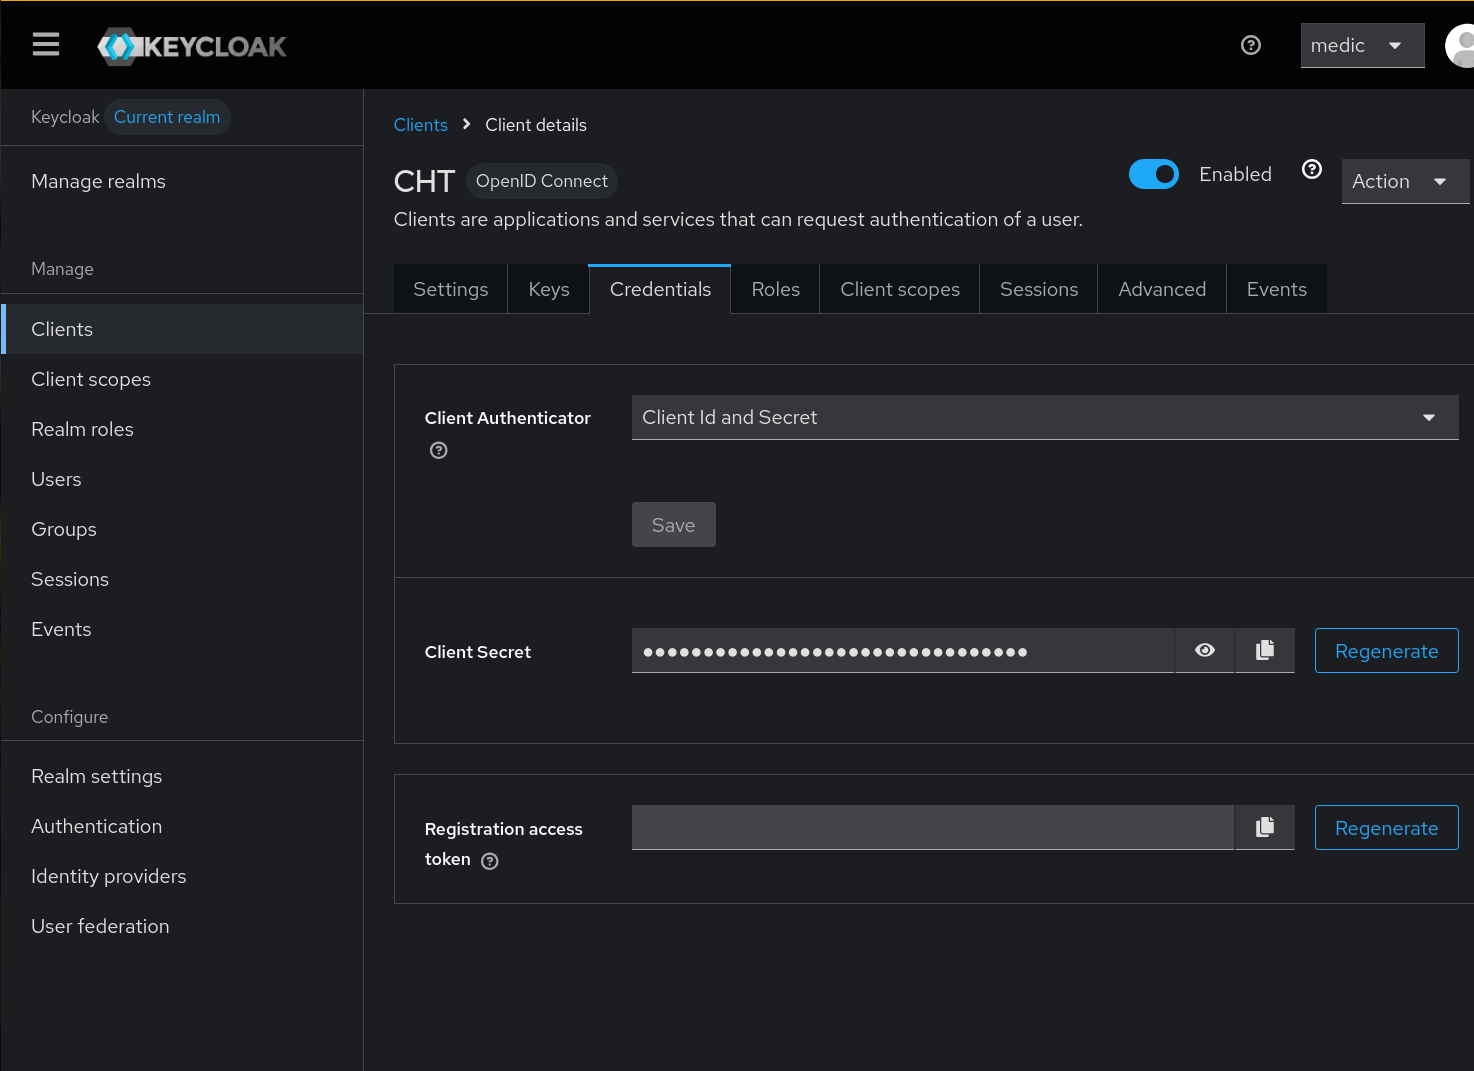
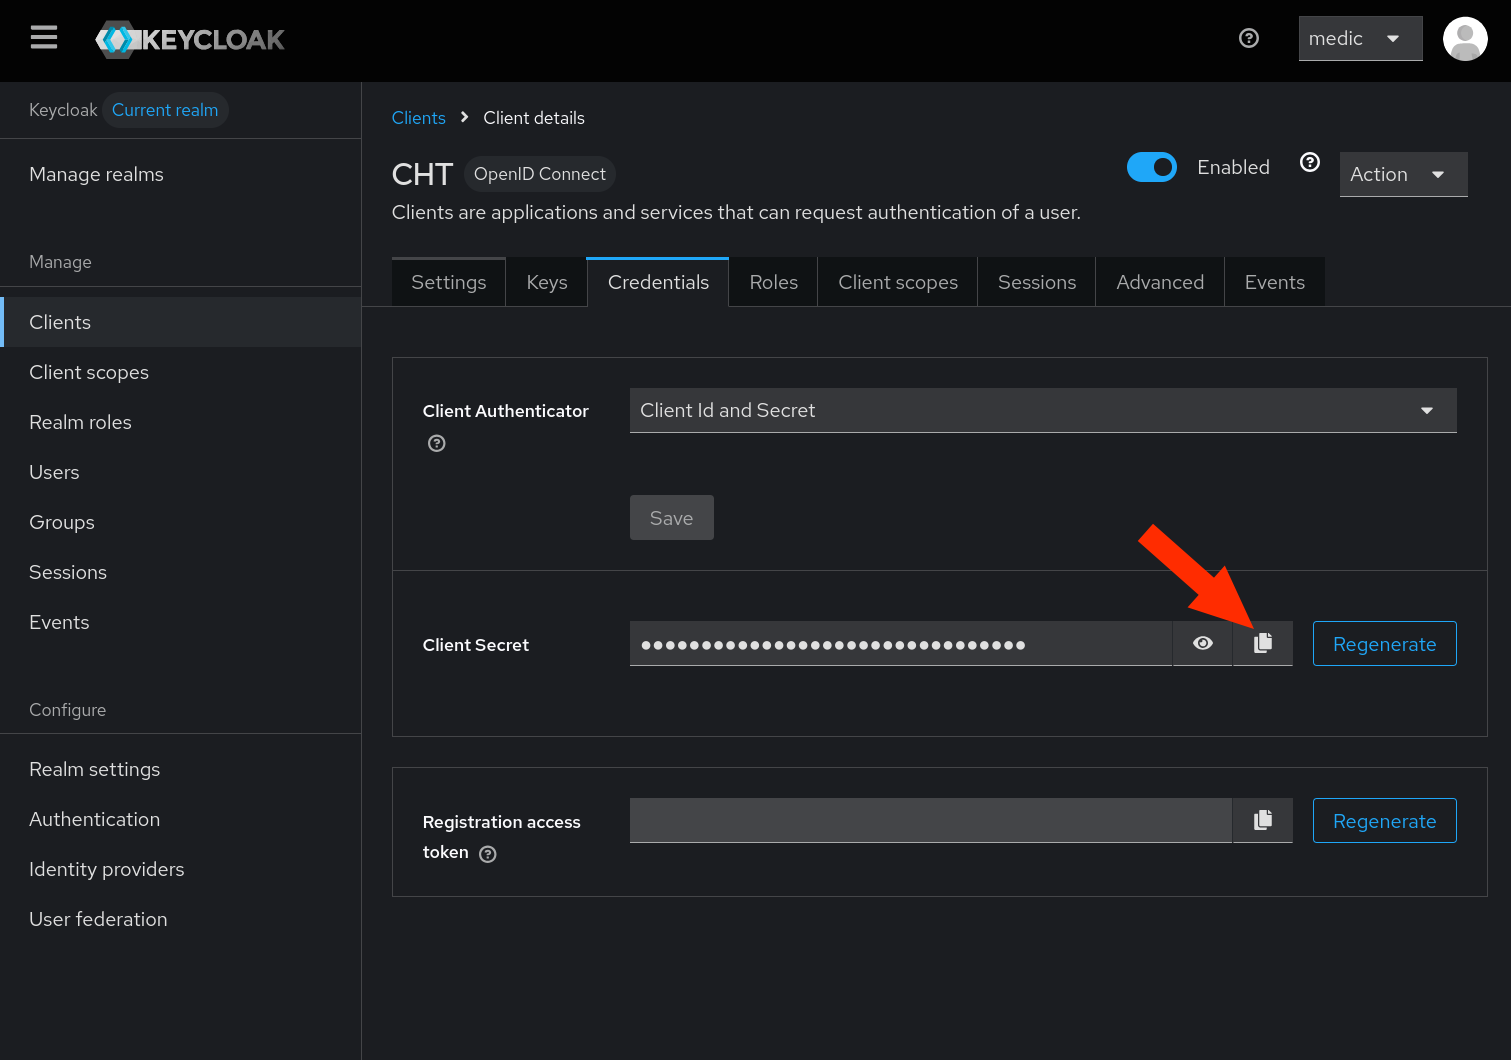
recreate images, start to move new client to it's own section

diff --git a/content/en/hosting/SSO/keycloak.md b/content/en/hosting/SSO/keycloak.md
@@ -11,8 +11,7 @@ _Introduced in 4.2.0_
 
 These steps document how to configure a single user on a new install of KeyCloak.  
 
-## Prerequisites 
-
+## Prerequisites
 
 {{< tabs items="Production,Development" >}}
 {{< tab >}}
@@ -47,9 +46,7 @@ KeyCloak is now accessible on [http://localhost:8080](http://localhost:8080![img
 {{< /tab >}}
 {{< /tabs >}}
 
-
 ## KeyCloak Setup
-
 
 {{% steps %}}
 
@@ -58,19 +55,6 @@ KeyCloak is now accessible on [http://localhost:8080](http://localhost:8080![img
 Be sure you're logged in
 
 ![welcome.png](keycloak/welcome.png)
-
-### Add new user (optional)
-
-Optionally create a new user by going to  "Users" > "Add user".  Specify username of `test` and and email of `test@test.com`
-
-![new.user.png](keycloak/new.user.png)
-
-### Credentials
-Go to the user's "Credentials" tab and select "Set password"
-
-![set.password.png](keycloak/set.password.png)
-
-![password.png](keycloak/password.png)
 
 ### Add new Client
 
@@ -93,20 +77,19 @@ Be sure to replace `CHT_URL` with the docker helper URL of your CHT instance. Be
 - Client ID: `CHT`
 - Client authentication: `On`
 - Authentication Flow: `Standard flow`
-- Valid redirect URIs: `https://<CHT_URL![img.png](img.png)>/medic/login/oidc`
+- Valid redirect URIs: `https://<CHT_URL>/medic/login/oidc`
 
 {{< /tab >}}
 {{< /tabs >}}
-
-
  
-![new.client.png](keycloak/new.client.png)
+![Create new Client](keycloak/newclient-new.png)
 
-![new.client.2.png](keycloak/new.client.2.png)
+![Client ID](keycloak/newclient-new2.png)
 
-![new.client.3.png](keycloak/new.client.3.png)
+![Client authentication](keycloak/newclient-new3.png)
 
-![new.client.4.png](keycloak/new.client.4.png)
+![Valid redirect URIs](keycloak/newclient-new4.png)
+
 
 ### Copy Secret
 
@@ -116,7 +99,6 @@ On the new `CHT` client go to "Credentials" and copy the "Client Secret" value. 
 {{% /steps %}}
 
 ## CHT Setup
-
 
 {{% steps %}}
 
@@ -138,12 +120,12 @@ Be sure to replace `KEYCLOAK_URL` with the production URL of your KeyCloak insta
 {{< /tab >}}
 {{< tab >}}
 
-Note that the `discovery_url` is only accessible from docker containers on the `cht-network`, like the CHT API container.  As well,  `allow_insecure_requests` is required when connecting to the OIDC server via `HTTP` instead of `HTTPS`. These settings should not be used in production.
+Update `KEYCLOAK_URL` to be the same as your Docker Helper URL, but with `8080` port and `http` instead of `https`. As well,  `allow_insecure_requests` is required when connecting to the OIDC server via `HTTP` instead of `HTTPS`. These settings should not be used in production.
 
 ```json
     "oidc_provider": {
       "client_id": "CHT",
-      "discovery_url": "http://keycloak:8080/realms/master/.well-known/openid-configuration",
+      "discovery_url": "http://<KEYCLOAK_URL>:8080/realms/master/.well-known/openid-configuration",
       "allow_insecure_requests": true
     },
 ```
@@ -200,6 +182,26 @@ curl -X PUT http://medic:password@<CHT_URL>/api/v1/credentials/oidc:client-secre
     - Enter the username/password for your Keycloak user
     - You will be redirected back to the CHT app and logged in as your CHT user
 - TODO Currently CHT login not working in branch code due to user mapping.
+
+{{% /steps %}}
+
+
+## Add a test user (optional)
+
+{{% steps %}}
+
+### Add new user 
+
+In KeyCloa,  create a new user by going to  "Users" > "Add user".  Specify username of `test` and and email of `test@test.com`
+
+![new.user.png](keycloak/new.user.png)
+
+### Credentials
+Go to the user's "Credentials" tab and select "Set password"
+
+![set.password.png](keycloak/set.password.png)
+
+![password.png](keycloak/password.png)
 
 {{% /steps %}}
 
